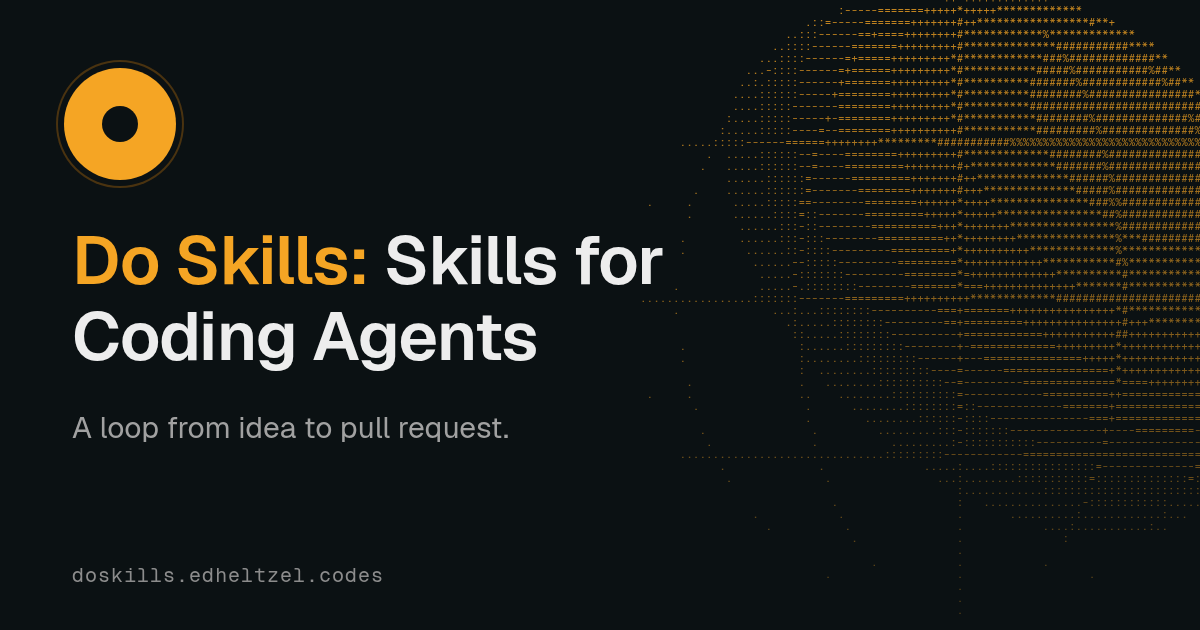
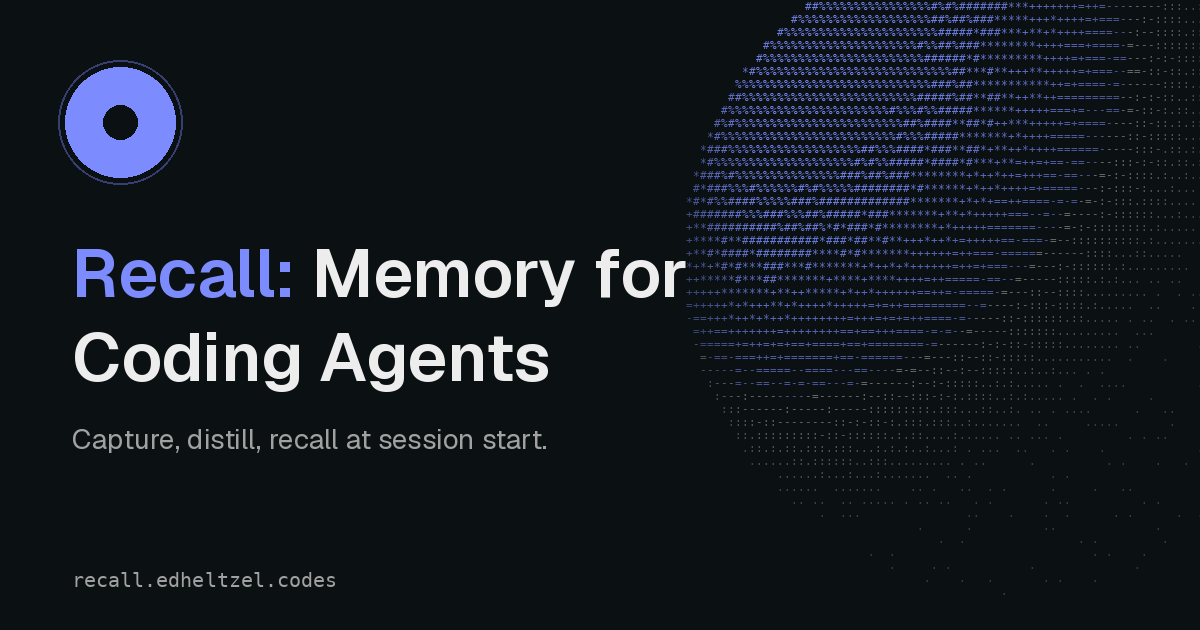
feat: Recall og.png with violet-blue accent #7c8cff
1200x630 GAP/DoSkills family OG image generated by scripts/og.py. Accent #7c8cff, distinct from DoSkills amber #f5a524 and GAP teal. TODO(recall-brief): regenerate if the brief picks another accent. noindex unchanged.

diff --git a/src/site.js b/src/site.js
@@ -15,12 +15,13 @@ export const docsHref = '/docs/';
 export const installHref = '/docs/install/';
 
 /**
- * Social preview image. TODO: recolor public/og.png to the Recall accent once the
- * brief lands. Until then this is the DoSkills image as a stand-in.
+ * Social preview image, public/og.png (1200x630), generated by scripts/og.py in the
+ * GAP/DoSkills family style with the Recall accent #7c8cff (violet-blue).
+ * TODO(recall-brief): regenerate if the brief picks a different accent.
  */
 export const ogImage = {
   path: '/og.png',
   width: 1200,
   height: 630,
-  alt: 'Recall. Persistent memory for coding agents.',
+  alt: 'Recall: Memory for Coding Agents. Capture, distill, recall at session start.',
 };

diff --git a/scripts/og.py b/scripts/og.py
@@ -1,0 +1,48 @@
+# Generates public/og.png (1200x630) in the GAP/DoSkills family style.
+# Recall accent #7c8cff (violet-blue). TODO(recall-brief): override if the brief picks another.
+import math, random
+from PIL import Image, ImageDraw, ImageFont
+W, H = 1200, 630
+BG = (11, 17, 19); ACC = (124, 140, 255); TEXT = (237, 237, 237); T2 = (161, 161, 161); T3 = (140, 140, 140)
+G = '/usr/share/fonts/truetype/sand-box/google/Geist/Geist-VariableFont_wght.ttf'
+M = '/usr/share/fonts/truetype/dejavu/DejaVuSansMono.ttf'
+def geist(size, w=600):
+    f = ImageFont.truetype(G, size)
+    try: f.set_variation_by_axes([w])
+    except Exception: pass
+    return f
+img = Image.new('RGB', (W, H), BG); d = ImageDraw.Draw(img)
+# Dithered glyph disc, lit on its upper-left rim.
+random.seed(7); mono = ImageFont.truetype(M, 11); ramp = " .:-=+*#%"
+cx, cy, r = 1010, 255, 330
+for y in range(-40, H, 13):
+    for x in range(560, W + 20, 7):
+        dx, dy = (x - cx) / r, (y - cy) / r; dd = dx*dx + dy*dy
+        if dd > 1: continue
+        z = math.sqrt(1 - dd); light = max(0, (-dx*0.6 - dy*0.55 + z*0.55)); light = light**1.6
+        v = min(len(ramp)-1, int(light * len(ramp) + random.random()*1.2))
+        if v <= 0: continue
+        t = 0.25 + 0.75*light
+        c = tuple(int(BG[i] + (ACC[i]-BG[i])*t) for i in range(3)) if light > 0.35 else tuple(int(BG[i] + (T3[i]-BG[i])*(0.35+light)) for i in range(3))
+        d.text((x, y), ramp[v], font=mono, fill=c)
+# fade the left edge of the disc under the copy
+for x in range(560, 760):
+    a = (760 - x) / 200
+    d.line([(x, 0), (x, H)], fill=BG, width=1) if a > 0.98 else None
+ov = Image.new('L', (W, H), 0); od = ImageDraw.Draw(ov)
+for x in range(540, 760): od.line([(x, 0), (x, H)], fill=int(255*max(0, (760-x)/220)))
+img.paste(Image.new('RGB', (W, H), BG), (0, 0), ov); d = ImageDraw.Draw(img)
+# Mark: accent disc with dark core and thin outer ring.
+mx, my = 120, 122
+d.ellipse([mx-62, my-62, mx+62, my+62], outline=tuple(int(c*0.45) for c in ACC), width=2)
+d.ellipse([mx-55, my-55, mx+55, my+55], fill=ACC)
+d.ellipse([mx-17, my-17, mx+17, my+17], fill=BG)
+# Copy
+ft = geist(68, 600)
+d.text((72, 228), 'Recall:', font=ft, fill=ACC)
+w = d.textlength('Recall: ', font=ft)
+d.text((72 + w, 228), 'Memory for', font=ft, fill=TEXT)
+d.text((72, 312), 'Coding Agents', font=ft, fill=TEXT)
+d.text((72, 420), 'Capture, distill, recall at session start.', font=geist(28, 400), fill=T2)
+d.text((72, 568), 'recall.edheltzel.codes', font=ImageFont.truetype(M, 20), fill=T2)
+img.save('public/og.png', optimize=True)
